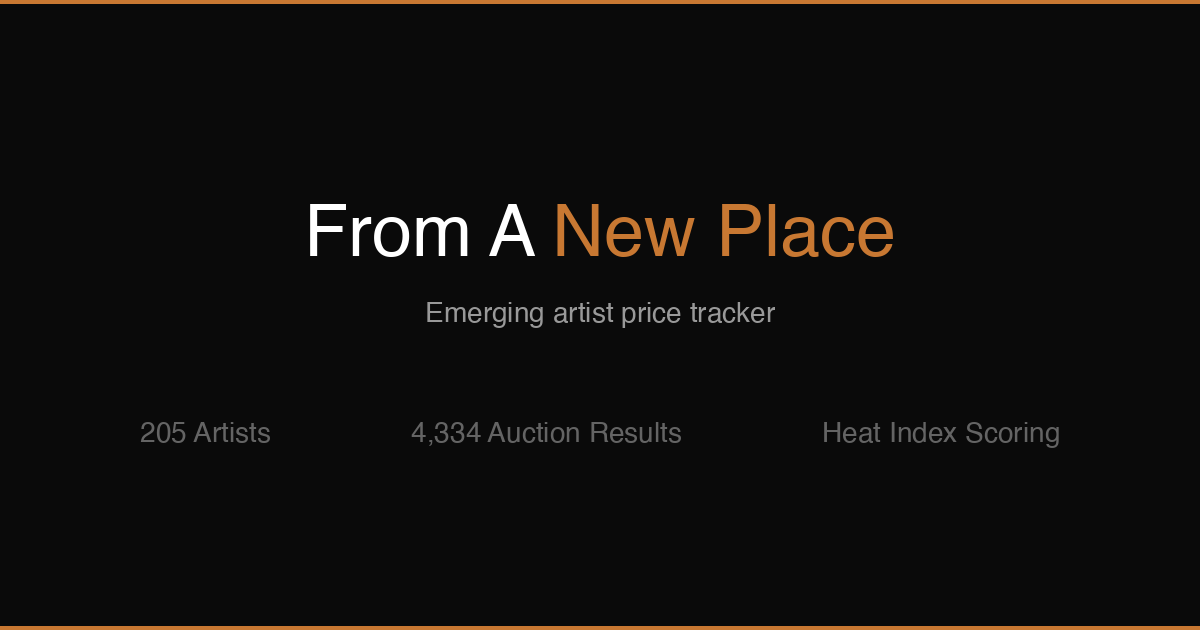
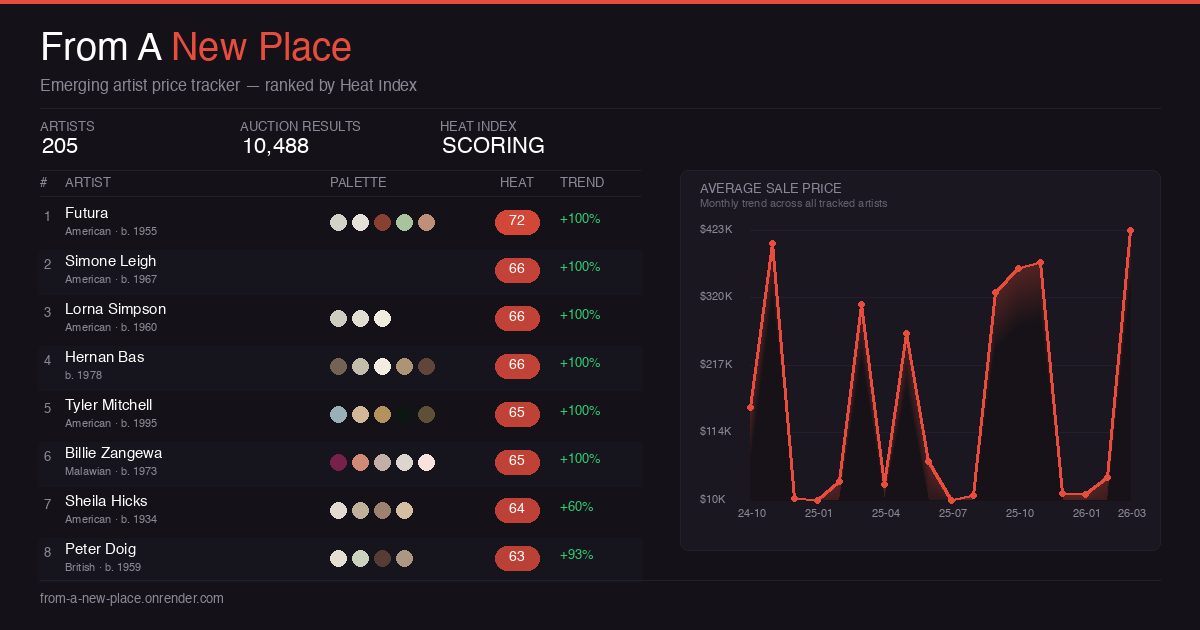
Redesign og:image to mirror site layout with leaderboard and chart
New share image shows top 8 artists with color palette dots, heat
scores, and trend percentages on the left, plus an average sale price
chart on the right. Uses the site's dark grey-purple color palette.

diff --git a/scripts/generate_og_image.py b/scripts/generate_og_image.py
@@ -1,0 +1,347 @@
+#!/usr/bin/env python3
+"""Generate a rich og:image for social sharing that mirrors the site design."""
+
+import os
+import sys
+import sqlite3
+import math
+
+sys.path.insert(0, os.path.dirname(os.path.dirname(__file__)))
+
+from PIL import Image, ImageDraw, ImageFont
+
+DB_PATH = os.path.join(os.path.dirname(os.path.dirname(__file__)), "artscope.db")
+OUT_PATH = os.path.join(
+    os.path.dirname(os.path.dirname(__file__)), "dashboard", "static", "og-image.png"
+)
+
+# Colors matching the site's new dark grey-purple palette
+BG = (20, 18, 24)          # #141218
+SURFACE = (26, 23, 32)     # #1a1720
+BORDER = (35, 31, 46)      # #231f2e
+ACCENT = (231, 76, 60)     # #e74c3c
+TEXT = (224, 224, 224)      # #e0e0e0
+TEXT_DIM = (140, 135, 150)  # muted
+TEXT_GREEN = (46, 204, 113) # green for positive
+WHITE = (255, 255, 255)
+
+W, H = 1200, 630
+
+
+def hex_to_rgb(hex_color):
+    h = hex_color.lstrip("#")
+    return tuple(int(h[i : i + 2], 16) for i in (0, 2, 4))
+
+
+def try_font(names, size):
+    """Try loading fonts by name, fall back to default."""
+    for name in names:
+        for path in [
+            f"/System/Library/Fonts/{name}",
+            f"/Library/Fonts/{name}",
+            f"/System/Library/Fonts/Supplemental/{name}",
+            f"/usr/share/fonts/truetype/{name}",
+        ]:
+            try:
+                return ImageFont.truetype(path, size)
+            except (OSError, IOError):
+                continue
+    return ImageFont.load_default()
+
+
+def generate():
+    conn = sqlite3.connect(DB_PATH)
+    conn.row_factory = sqlite3.Row
+
+    # Get top 8 artists
+    top_artists = conn.execute("""
+        SELECT a.id, a.name, a.nationality, a.birth_year,
+               t.composite_score as heat, t.price_change_pct
+        FROM artists a
+        JOIN trend_scores t ON t.artist_id = a.id
+        ORDER BY t.composite_score DESC
+        LIMIT 8
+    """).fetchall()
+
+    # Get colors for each artist
+    artist_colors = {}
+    for a in top_artists:
+        colors = conn.execute(
+            "SELECT hex_color, percentage FROM artist_colors WHERE artist_id = ? ORDER BY rank",
+            (a["id"],),
+        ).fetchall()
+        artist_colors[a["id"]] = [c["hex_color"] for c in colors]
+
+    # Get monthly price data for sparkline
+    monthly = conn.execute("""
+        SELECT strftime("%Y-%m", sale_date) as month,
+               AVG(hammer_price_usd) as avg_price,
+               COUNT(*) as count
+        FROM auction_results
+        WHERE hammer_price_usd > 0 AND sale_date IS NOT NULL
+        GROUP BY month ORDER BY month
+    """).fetchall()
+
+    total_artists = conn.execute("SELECT COUNT(*) FROM artists").fetchone()[0]
+    total_results = conn.execute("SELECT COUNT(*) FROM auction_results").fetchone()[0]
+    conn.close()
+
+    # Create image
+    img = Image.new("RGB", (W, H), BG)
+    draw = ImageDraw.Draw(img)
+
+    # Fonts
+    font_title = try_font(["Helvetica-Bold.ttc", "Helvetica.ttc", "Arial Bold.ttf", "DejaVuSans-Bold.ttf"], 38)
+    font_subtitle = try_font(["Helvetica.ttc", "Helvetica-Light.ttc", "Arial.ttf", "DejaVuSans.ttf"], 16)
+    font_label = try_font(["Helvetica.ttc", "Helvetica-Light.ttc", "Arial.ttf", "DejaVuSans.ttf"], 13)
+    font_stat = try_font(["Helvetica-Bold.ttc", "Helvetica.ttc", "Arial Bold.ttf", "DejaVuSans-Bold.ttf"], 22)
+    font_row_name = try_font(["Helvetica-Bold.ttc", "Helvetica.ttc", "Arial Bold.ttf", "DejaVuSans-Bold.ttf"], 15)
+    font_row = try_font(["Helvetica.ttc", "Helvetica-Light.ttc", "Arial.ttf", "DejaVuSans.ttf"], 13)
+    font_heat = try_font(["Helvetica-Bold.ttc", "Helvetica.ttc", "Arial Bold.ttf", "DejaVuSans-Bold.ttf"], 14)
+    font_chart_label = try_font(["Helvetica.ttc", "Helvetica-Light.ttc", "Arial.ttf", "DejaVuSans.ttf"], 11)
+
+    # === HEADER ===
+    # Title
+    draw.text((40, 30), "From A ", fill=WHITE, font=font_title)
+    title_w = draw.textlength("From A ", font=font_title)
+    draw.text((40 + title_w, 30), "New Place", fill=ACCENT, font=font_title)
+
+    # Subtitle
+    draw.text((40, 78), "Emerging artist price tracker — ranked by Heat Index", fill=TEXT_DIM, font=font_subtitle)
+
+    # Header line
+    draw.line([(40, 108), (W - 40, 108)], fill=BORDER, width=1)
+
+    # === STATS ROW ===
+    stats_y = 120
+    stats = [
+        ("ARTISTS", str(total_artists)),
+        ("AUCTION RESULTS", f"{total_results:,}"),
+        ("HEAT INDEX", "SCORING"),
+    ]
+    stat_x = 40
+    for label, value in stats:
+        draw.text((stat_x, stats_y), label, fill=TEXT_DIM, font=font_label)
+        draw.text((stat_x + 2, stats_y + 16), value, fill=WHITE, font=font_stat)
+        stat_x += 200
+
+    # === LEFT SIDE: LEADERBOARD ===
+    table_y = 170
+    draw.line([(40, table_y), (640, table_y)], fill=BORDER, width=1)
+
+    # Column headers
+    header_y = table_y + 6
+    draw.text((40, header_y), "#", fill=TEXT_DIM, font=font_label)
+    draw.text((65, header_y), "ARTIST", fill=TEXT_DIM, font=font_label)
+    draw.text((330, header_y), "PALETTE", fill=TEXT_DIM, font=font_label)
+    draw.text((500, header_y), "HEAT", fill=TEXT_DIM, font=font_label)
+    draw.text((560, header_y), "TREND", fill=TEXT_DIM, font=font_label)
+
+    draw.line([(40, header_y + 20), (640, header_y + 20)], fill=BORDER, width=1)
+
+    # Artist rows
+    row_y = header_y + 28
+    row_h = 48
+
+    for i, a in enumerate(top_artists):
+        # Subtle alternating row bg
+        if i % 2 == 1:
+            draw.rectangle(
+                [(38, row_y - 2), (642, row_y + row_h - 6)],
+                fill=(22, 20, 28),
+            )
+
+        # Rank number
+        draw.text((44, row_y + 6), str(i + 1), fill=TEXT_DIM, font=font_row)
+
+        # Artist name
+        name = a["name"]
+        if len(name) > 25:
+            name = name[:23] + "…"
+        draw.text((65, row_y + 2), name, fill=WHITE, font=font_row_name)
+
+        # Bio line
+        bio_parts = []
+        if a["nationality"]:
+            bio_parts.append(a["nationality"])
+        if a["birth_year"]:
+            bio_parts.append(f"b. {a['birth_year']}")
+        if bio_parts:
+            draw.text((65, row_y + 22), " · ".join(bio_parts), fill=TEXT_DIM, font=font_chart_label)
+
+        # Color palette dots
+        colors = artist_colors.get(a["id"], [])
+        dot_x = 330
+        for hex_c in colors[:5]:
+            rgb = hex_to_rgb(hex_c)
+            draw.ellipse(
+                [(dot_x, row_y + 10), (dot_x + 16, row_y + 26)],
+                fill=rgb,
+            )
+            dot_x += 22
+
+        # Heat score pill
+        heat = a["heat"] * 100
+        pill_x = 495
+        pill_w = 44
+        pill_h = 24
+        pill_y = row_y + 6
+        # Pill color intensity based on heat
+        intensity = min(heat / 80, 1.0)
+        pill_color = (
+            int(ACCENT[0] * intensity + SURFACE[0] * (1 - intensity)),
+            int(ACCENT[1] * intensity + SURFACE[1] * (1 - intensity)),
+            int(ACCENT[2] * intensity + SURFACE[2] * (1 - intensity)),
+        )
+        draw.rounded_rectangle(
+            [(pill_x, pill_y), (pill_x + pill_w, pill_y + pill_h)],
+            radius=12,
+            fill=pill_color,
+        )
+        heat_text = f"{heat:.0f}"
+        tw = draw.textlength(heat_text, font=font_heat)
+        draw.text(
+            (pill_x + (pill_w - tw) / 2, pill_y + 4),
+            heat_text,
+            fill=WHITE,
+            font=font_heat,
+        )
+
+        # Trend
+        pct = (a["price_change_pct"] or 0) * 100
+        trend_text = f"+{pct:.0f}%" if pct > 0 else f"{pct:.0f}%"
+        trend_color = TEXT_GREEN if pct > 0 else ACCENT if pct < 0 else TEXT_DIM
+        draw.text((560, row_y + 8), trend_text, fill=trend_color, font=font_row)
+
+        row_y += row_h
+
+    # === RIGHT SIDE: PRICE CHART ===
+    chart_x = 680
+    chart_y = 170
+    chart_w = 480
+    chart_h = 380
+
+    # Chart background
+    draw.rounded_rectangle(
+        [(chart_x, chart_y), (chart_x + chart_w, chart_y + chart_h)],
+        radius=8,
+        fill=SURFACE,
+        outline=BORDER,
+    )
+
+    # Chart title
+    draw.text(
+        (chart_x + 20, chart_y + 12),
+        "AVERAGE SALE PRICE",
+        fill=TEXT_DIM,
+        font=font_label,
+    )
+    draw.text(
+        (chart_x + 20, chart_y + 28),
+        "Monthly trend across all tracked artists",
+        fill=(100, 95, 110),
+        font=font_chart_label,
+    )
+
+    # Plot area
+    plot_x = chart_x + 70
+    plot_y = chart_y + 60
+    plot_w = chart_w - 100
+    plot_h = chart_h - 110
+
+    # Use last 18 months of data
+    plot_data = monthly[-18:] if len(monthly) >= 18 else monthly
+    if plot_data:
+        prices = [d["avg_price"] for d in plot_data]
+        max_price = max(prices)
+        min_price = min(prices)
+        price_range = max_price - min_price or 1
+
+        # Grid lines
+        for j in range(5):
+            gy = plot_y + int(plot_h * j / 4)
+            draw.line([(plot_x, gy), (plot_x + plot_w, gy)], fill=BORDER, width=1)
+            # Price label
+            price_val = max_price - (price_range * j / 4)
+            if price_val >= 1000:
+                label = f"${price_val / 1000:.0f}K"
+            else:
+                label = f"${price_val:.0f}"
+            draw.text((plot_x - 50, gy - 6), label, fill=TEXT_DIM, font=font_chart_label)
+
+        # Plot filled area + line
+        points = []
+        for j, d in enumerate(plot_data):
+            px = plot_x + int(plot_w * j / (len(plot_data) - 1))
+            py = plot_y + plot_h - int(plot_h * (d["avg_price"] - min_price) / price_range)
+            points.append((px, py))
+
+        # Filled area under curve (gradient effect)
+        if len(points) >= 2:
+            # Create polygon for fill
+            fill_points = list(points) + [
+                (points[-1][0], plot_y + plot_h),
+                (points[0][0], plot_y + plot_h),
+            ]
+            # Semi-transparent fill - draw multiple fading layers
+            for offset in range(0, 60, 2):
+                alpha_pct = 1.0 - (offset / 60)
+                fill_color = (
+                    int(ACCENT[0] * 0.3 * alpha_pct + BG[0] * (1 - 0.3 * alpha_pct)),
+                    int(ACCENT[1] * 0.3 * alpha_pct + BG[1] * (1 - 0.3 * alpha_pct)),
+                    int(ACCENT[2] * 0.3 * alpha_pct + BG[2] * (1 - 0.3 * alpha_pct)),
+                )
+                shifted_points = [(x, min(y + offset, plot_y + plot_h)) for x, y in points]
+                shifted_fill = list(shifted_points) + [
+                    (points[-1][0], plot_y + plot_h),
+                    (points[0][0], plot_y + plot_h),
+                ]
+                if len(shifted_fill) >= 3:
+                    draw.polygon(shifted_fill, fill=fill_color)
+
+            # Main line
+            for j in range(len(points) - 1):
+                draw.line(
+                    [points[j], points[j + 1]],
+                    fill=ACCENT,
+                    width=3,
+                )
+
+            # Dots at data points
+            for px, py in points:
+                draw.ellipse(
+                    [(px - 3, py - 3), (px + 3, py + 3)],
+                    fill=ACCENT,
+                )
+
+        # Month labels (every 3rd month)
+        for j, d in enumerate(plot_data):
+            if j % 3 == 0 or j == len(plot_data) - 1:
+                px = plot_x + int(plot_w * j / (len(plot_data) - 1))
+                month_str = d["month"][-5:]  # "05-25" style
+                draw.text(
+                    (px - 12, plot_y + plot_h + 8),
+                    month_str,
+                    fill=TEXT_DIM,
+                    font=font_chart_label,
+                )
+
+    # === BOTTOM BAR ===
+    draw.line([(40, H - 50), (W - 40, H - 50)], fill=BORDER, width=1)
+    draw.text(
+        (40, H - 38),
+        "from-a-new-place.onrender.com",
+        fill=TEXT_DIM,
+        font=font_label,
+    )
+
+    # Accent bar at top
+    draw.rectangle([(0, 0), (W, 3)], fill=ACCENT)
+
+    img.save(OUT_PATH, "PNG", optimize=True)
+    print(f"Saved og-image to {OUT_PATH}")
+    print(f"Size: {os.path.getsize(OUT_PATH):,} bytes")
+
+
+if __name__ == "__main__":
+    generate()
